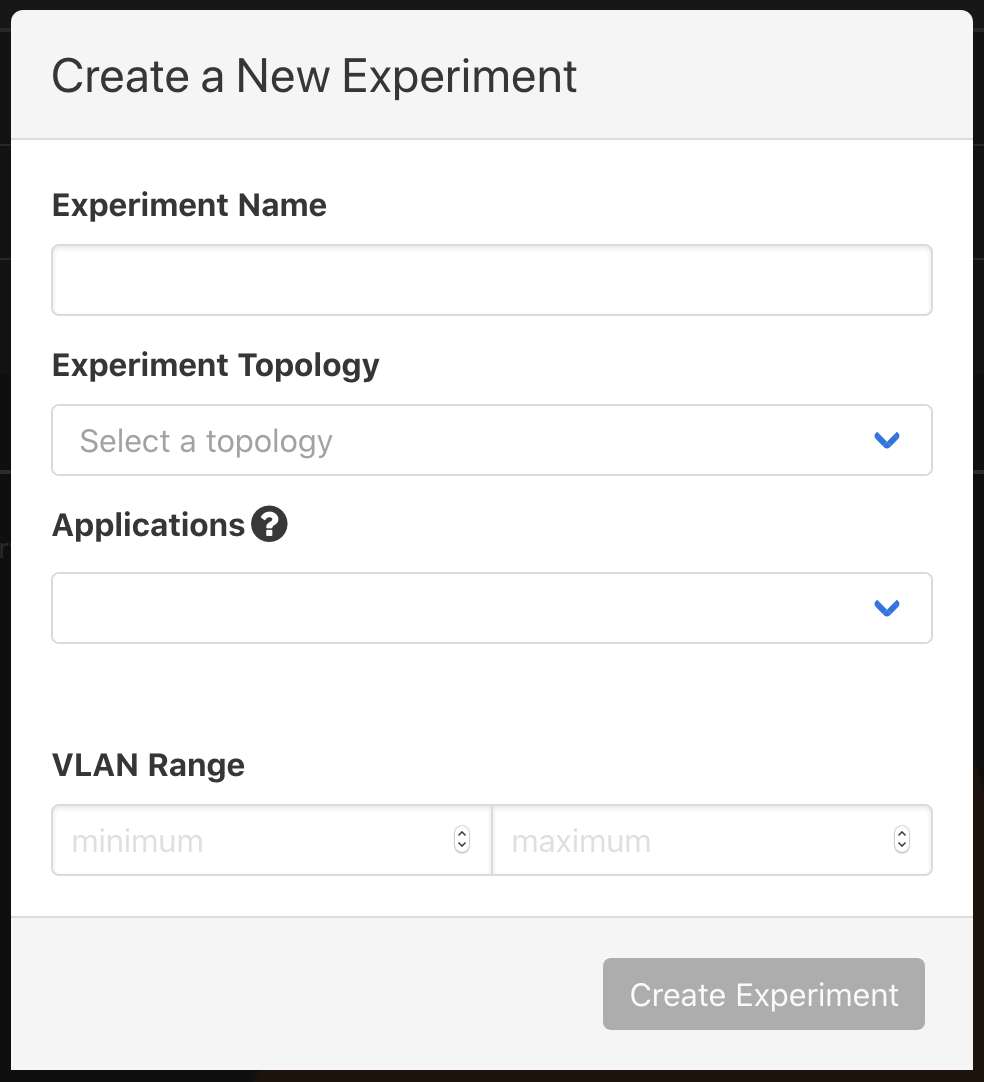
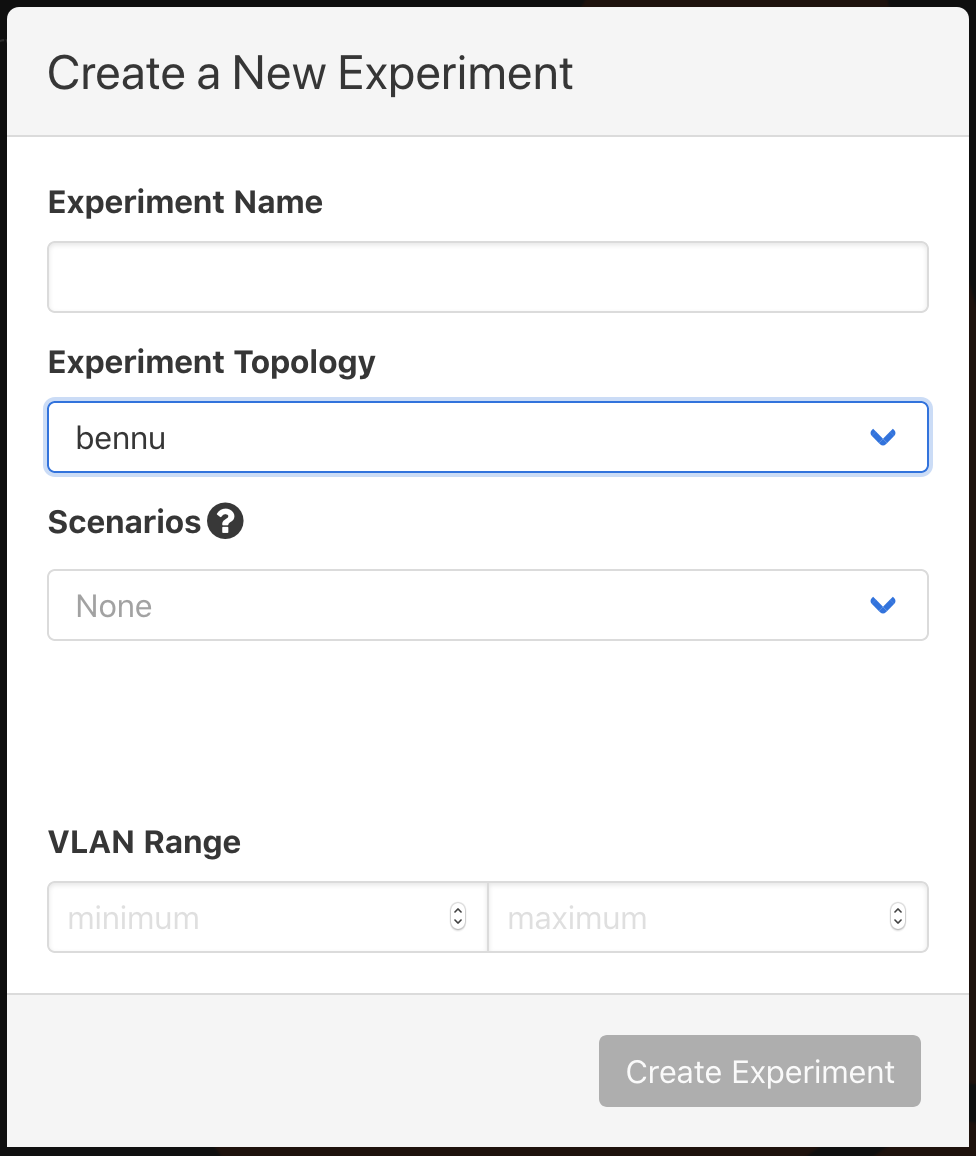
Replaced some HTML content that was removed; adjusted an image.

diff --git a/src/user-administration.md b/src/user-administration.md
@@ -1,51 +1,50 @@
 # User Administration in phēnix
+<br>
 
 ## Create a new user
 
 There are two primary ways to create new users. 
 
-1. Choose the `Create Account` link off the login page and complete all fields
-   one the `Create a New Account` dialogue. This will initiate a message to an
-   administrator's account who can then activate the account, setting the
-   role(s) and resource name(s).
+1. Choose the `Create Account` link off the login page and complete all fields one the `Create a New Account` dialogue. This will initiate a message to an administrator's account who can then activate the account, setting the role(s) and resource name(s).
 
-![screenshot](images/login_create.png)
+<p align="center">
+    <img width="400" src="images/login_create.png">
+</p>
 
-![screenshot](images/create_new_account.png)
+<p align="center">
+    <img width="300" src="images/create_new_account.png">
+</p>
 
-1. From the `Users` tab, click the `+` button to `create a new user`. Here the
-   administrator will add the role(s) and resource name(s). 
+2. From the `Users` tab, click the `+` button to `create a new user`. Here the administrator will add the role(s) and resource name(s). 
 
-![screenshot](images/create_a_new_user.png)
+<p align="center">
+    <img width="375" src="images/create_a_new_user.png">
+</p>
+<br>
 
 ## Login
 
-The login page is self-descriptive. Using the `Remember me` checkbox will set a
-token to local storage so that you can remove the requirement to enter a
-`Username` and `Password` each time the page or site is reloaded. 
+The login page is self-descriptive. Using the `Remember me` checkbox will set a token to local storage so that you can remove the requirement to enter a `Username` and `Password` each time the page or site is reloaded. 
 
-If an administrator starts the UI server with the following command,
-authentication is enabled:
+If an administrator starts the UI server with the following command, authentication is enabled:
 
 ```
 ~# phenix ui -k <some_string>
 ```
 
 Without the `-k` (or `--jwt-signing-key`), authentication is disabled.
+<br>
 
 ## User Administration
+<br>
 
 ### Updating users
 
-An administrator is able to click on the username on the table in the Users tab
-to update a user. They can update `First Name` or `Last Name`, `Role`, or
-`Resource Name(s)`.
+An administrator is able to click on the username on the table in the Users tab to update a user. They can update `First Name` or `Last Name`, `Role`, or `Resource Name(s)`.
 
 ### Role
 
-`Global Admin` is the administrator level account and has access to all
-capabilities, to include user management. They also have access to all
-resources.
+`Global Admin` is the administrator level account and has access to all capabilities, to include user management. They also have access to all resources.
 
 | Role              | Limits | List | Get | Create | Update | Patch | Delete | Users |
 |-------------------|:-------|:----:|:---:|:------:|:------:|:-----:|:------:|:-----:|
@@ -59,5 +58,4 @@ resources.
 
 ### Resource Name(s)
 
-!!! todo
-Describe what a resource is and how wildcards can be used.
+**TODO**: describe what a resource is and how wildcards can be used.

diff --git a/src/vms.md b/src/vms.md
@@ -1,40 +1,37 @@
 # VMs
+<br>
 
 ## VM Info
+<br>
 
 ### From the Web-UI
 
-The experiment must be started; click on the experiment name to enter the
-Running Experiment component. Within that component, click on the VM name and
-you will be presented with a VM information dialogue.
+The experiment must be started; click on the experiment name to enter the Running Experiment component. Within that component, click on the VM name and you will be presented with a VM information dialogue.
 
-![screenshot](images/vm_diag.png)
+<p align="center">
+    <img width="400" src="images/vm_diag.png">
+</p>
+<br>
 
 ### From the Command Line Binary
 
-There are two options for displaying the information for VMs in an experiment.
-First run the following command to see information for all VMs in a given
-experiment.
+There are two options for displaying the information for VMs in an experiment. First run the following command to see information for all VMs in a given experiment.
 
 ```
 ~# phenix vm info <experiment name>
 ```
-
-Or ... run the following to see the information for a specific VM in an
-experiment.
-
+Or ... run the following to see the information for a specific VM in an experiment.
 ```
 ~# phenix vm info <experiment name>/<VM name>
 ```
+<br>
 
 ## Pause a VM
+<br>
 
 ### From the Web-UI
 
-Click on the name of a running VM in a started experiment to access the VM
-information dialogue. To pause a VM, click on the pause button (furthest button
-to the left). To start a paused VM, that same button will become a green play
-button; simply click it to start.
+Click on the name of a running VM in a started experiment to access the VM information dialogue. To pause a VM, click on the pause button (furthest button to the left). To start a paused VM, that same button will become a green play button; simply click it to start.
 
 ### From the Command Line Binary
 
@@ -43,20 +40,18 @@ To pause a VM, run the following command.
 ```
 ~# phenix vm pause <experiment name> <VM name>
 ```
-
 To resume a paused VM, run the following command.
-
 ```
 ~# phenix vm resume <experiment name> <VM name>
 ```
+<br>
 
 ## Redeploy a VM
+<br>
 
 ### From the Web-UI
 
-Click on the name of a running VM in a started experiment to access the VM
-information dialogue. To redeploy a VM, click on the redeploy button (second
-from the right).
+Click on the name of a running VM in a started experiment to access the VM information dialogue. To redeploy a VM, click on the redeploy button (second from the right).
 
 ### From the Command Line Binary
 
@@ -65,4 +60,5 @@ To redploy a VM, run the following command.
 ```
 ~# phenix vm redeploy <experiment name> <VM name>
 ```
+<br>
 

diff --git a/src/experiments.md b/src/experiments.md
@@ -1,25 +1,28 @@
 # Experiments
+<br>
 
 ## Listing Experiments
+<br>
 
 ### From the Web-UI
 
 Click on the `Experiments` tab.
+<br>
 
 ### From the Command Line Binary
 
 ```
 ~# phenix exp list
 ```
+<br>
 
 ## Starting / Stopping Experiments
+<br>
 
 ### From the Web-UI
 
-Clicking the `stopped` button will start the experiment; similarly the `started`
-button will stop the experiment. A progress bar is used to update the progress
-of starting an experiment. During the update to the experiment -- starting or
-stopping -- it will not be accessible or available to delete. 
+Clicking the `stopped` button will start the experiment; similarly the `started` button will stop the experiment. A progress bar is used to update the progress of starting an experiment. During the update to the experiment -- starting or stopping -- it will not be accessible or available to delete. 
+<br>
 
 ### From the Command Line Binary
 
@@ -35,8 +38,7 @@ Or ...
 ~# phenix exp restart <experiment name>
 ```
 
-Optionally, you can use the `--dry-run` flag to do everything expect call out to
-minimega.
+Optionally, you can use the `--dry-run` flag to do everything expect call out to minimega.
 
 The `phenix exp --help` command will output:
 
@@ -77,19 +79,24 @@ Use "phenix experiment [command] --help" for more information about a command.
 <br>
 
 ## Create a New Experiment
+<br>
 
 ### From the Web-UI
 
-![screenshot](images/create_exp.png)
+<p align="center">
+    <img width="800" src="images/create_exp.png">
+</p>
 
 Click the `+` button to the right of the filter field. 
 
 **TODO**: update image, replacing Applications with Scenarios.
 
-![screenshot](images/create_exp_dia.png)
+<p align="center">
+    <img width="400" src="images/create_exp_dia.png">
+</p>
 
-Enter `Experiment Name` and `Experiment Topology`, the remaining selection are
-optional. 
+Enter `Experiment Name` and `Experiment Topology`, the remaining selection are optional. 
+<br>
 
 ### From the Command Line Binary
 
@@ -139,11 +146,12 @@ Global Flags:
 
 ### From Web-UI
 
-The experiment must be stopped; click on the experiment name to enter the
-Stopped Experiment component. Click on the hamburger menu to the right of the
-filter field and start button.
+The experiment must be stopped; click on the experiment name to enter the Stopped Experiment component. Click on the hamburger menu to the right of the filter field and start button.
 
-![screenshot](images/schedule.png)
+<p align="center">
+    <img width="450" src="images/schedule.png">
+</p>
+<br>
 
 ### From the Command Line Binary
 
